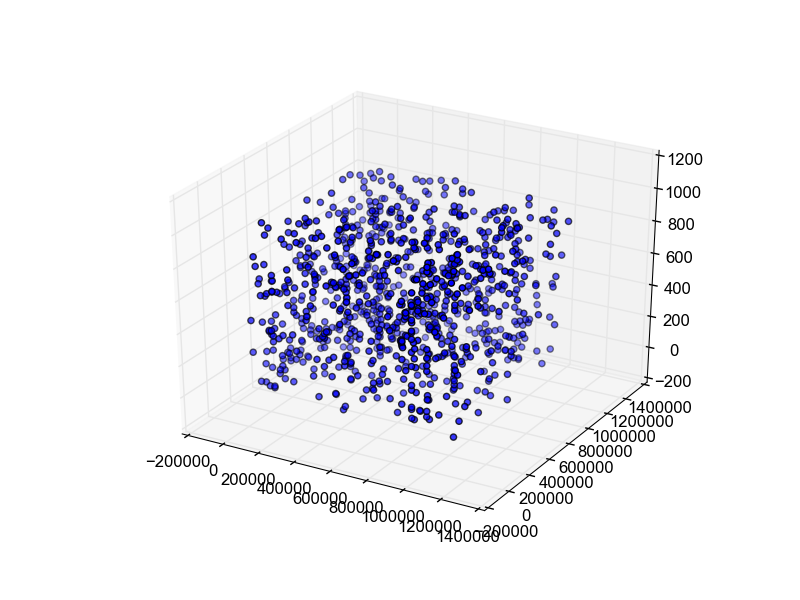
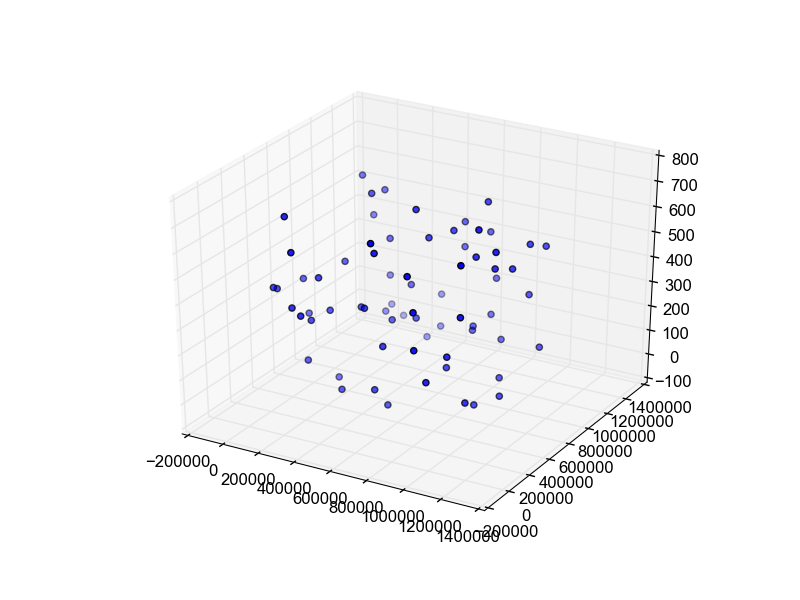
distances and trajectories: find a very pretty attractor please

Changed region(s): [[0.3125, 0.27, 0.7188, 0.75], [0.8125, 0.24, 0.875, 0.6]]

diff --git a/stats.py b/stats.py
@@ -1,6 +1,7 @@
 import math
 import random
 import operator
+import collections
 import numpy as np
 import scipy.sparse as sci_sp
 import matplotlib.pyplot as plt
@@ -18,35 +19,34 @@ def first_dist(p0, p1):
 #def manhattan_dist(first, second):
 
 word_map = {}
-word_counts = {}
+word_counts = collections.Counter()
 
 if __name__ == "__main__":
     corpus = []
     with open ("corpus.txt", "r") as corpus_file:
         corpus = corpus_file.read().split()
     word_range = range(len(corpus))
-    random.shuffle(word_range) #look at that mutation
+    #random.shuffle(word_range) #look at that mutation
     for word in corpus:
-        if word in word_map:
-            word_counts[word] += 1
-        else:
-            word_map[word] = word_range.pop()
-            word_counts[word] = 1
+        word_counts[word] += 1
+    for word, _ in word_counts.most_common():
+        word_map[word] = word_range.pop()
     wordmat = sci_sp.dok_matrix((len(corpus), len(corpus)))
     prev_pt = (0,0)
-    #distances = []
+    distances = []
     pts = []
     for word1, word2 in bigrams(corpus):
         curr_pt = (word_map[word1], word_map[word2])
         pts.append(curr_pt)
-        #distances.append(first_dist(prev_pt, curr_pt))
-        #prev_pt = curr_pt
+        distances.append(first_dist(prev_pt, curr_pt))
+        prev_pt = curr_pt
     #print len(distances)
-    xs = map(operator.itemgetter(0), pts)[:50]
-    ys = map(operator.itemgetter(1), pts)[:50]
-    zs = map(lambda x : x * 10, range(len(pts))[:50])
+    xs = map(operator.itemgetter(0), pts)[:700]
+    ys = map(operator.itemgetter(1), pts)[:700]
+    zs = map(lambda x : x * 10, range(len(pts))[:700])
     fig = plt.figure()
     ax = fig.add_subplot(111, projection="3d")
-    ax.plot(xs, ys, zs)
-    #plt.plot(distances[:100])
+    ax.scatter(xs, ys, zs)
+    #plt.plot(distances[:200])
     plt.show()
+    #plt.savefig("distances")
